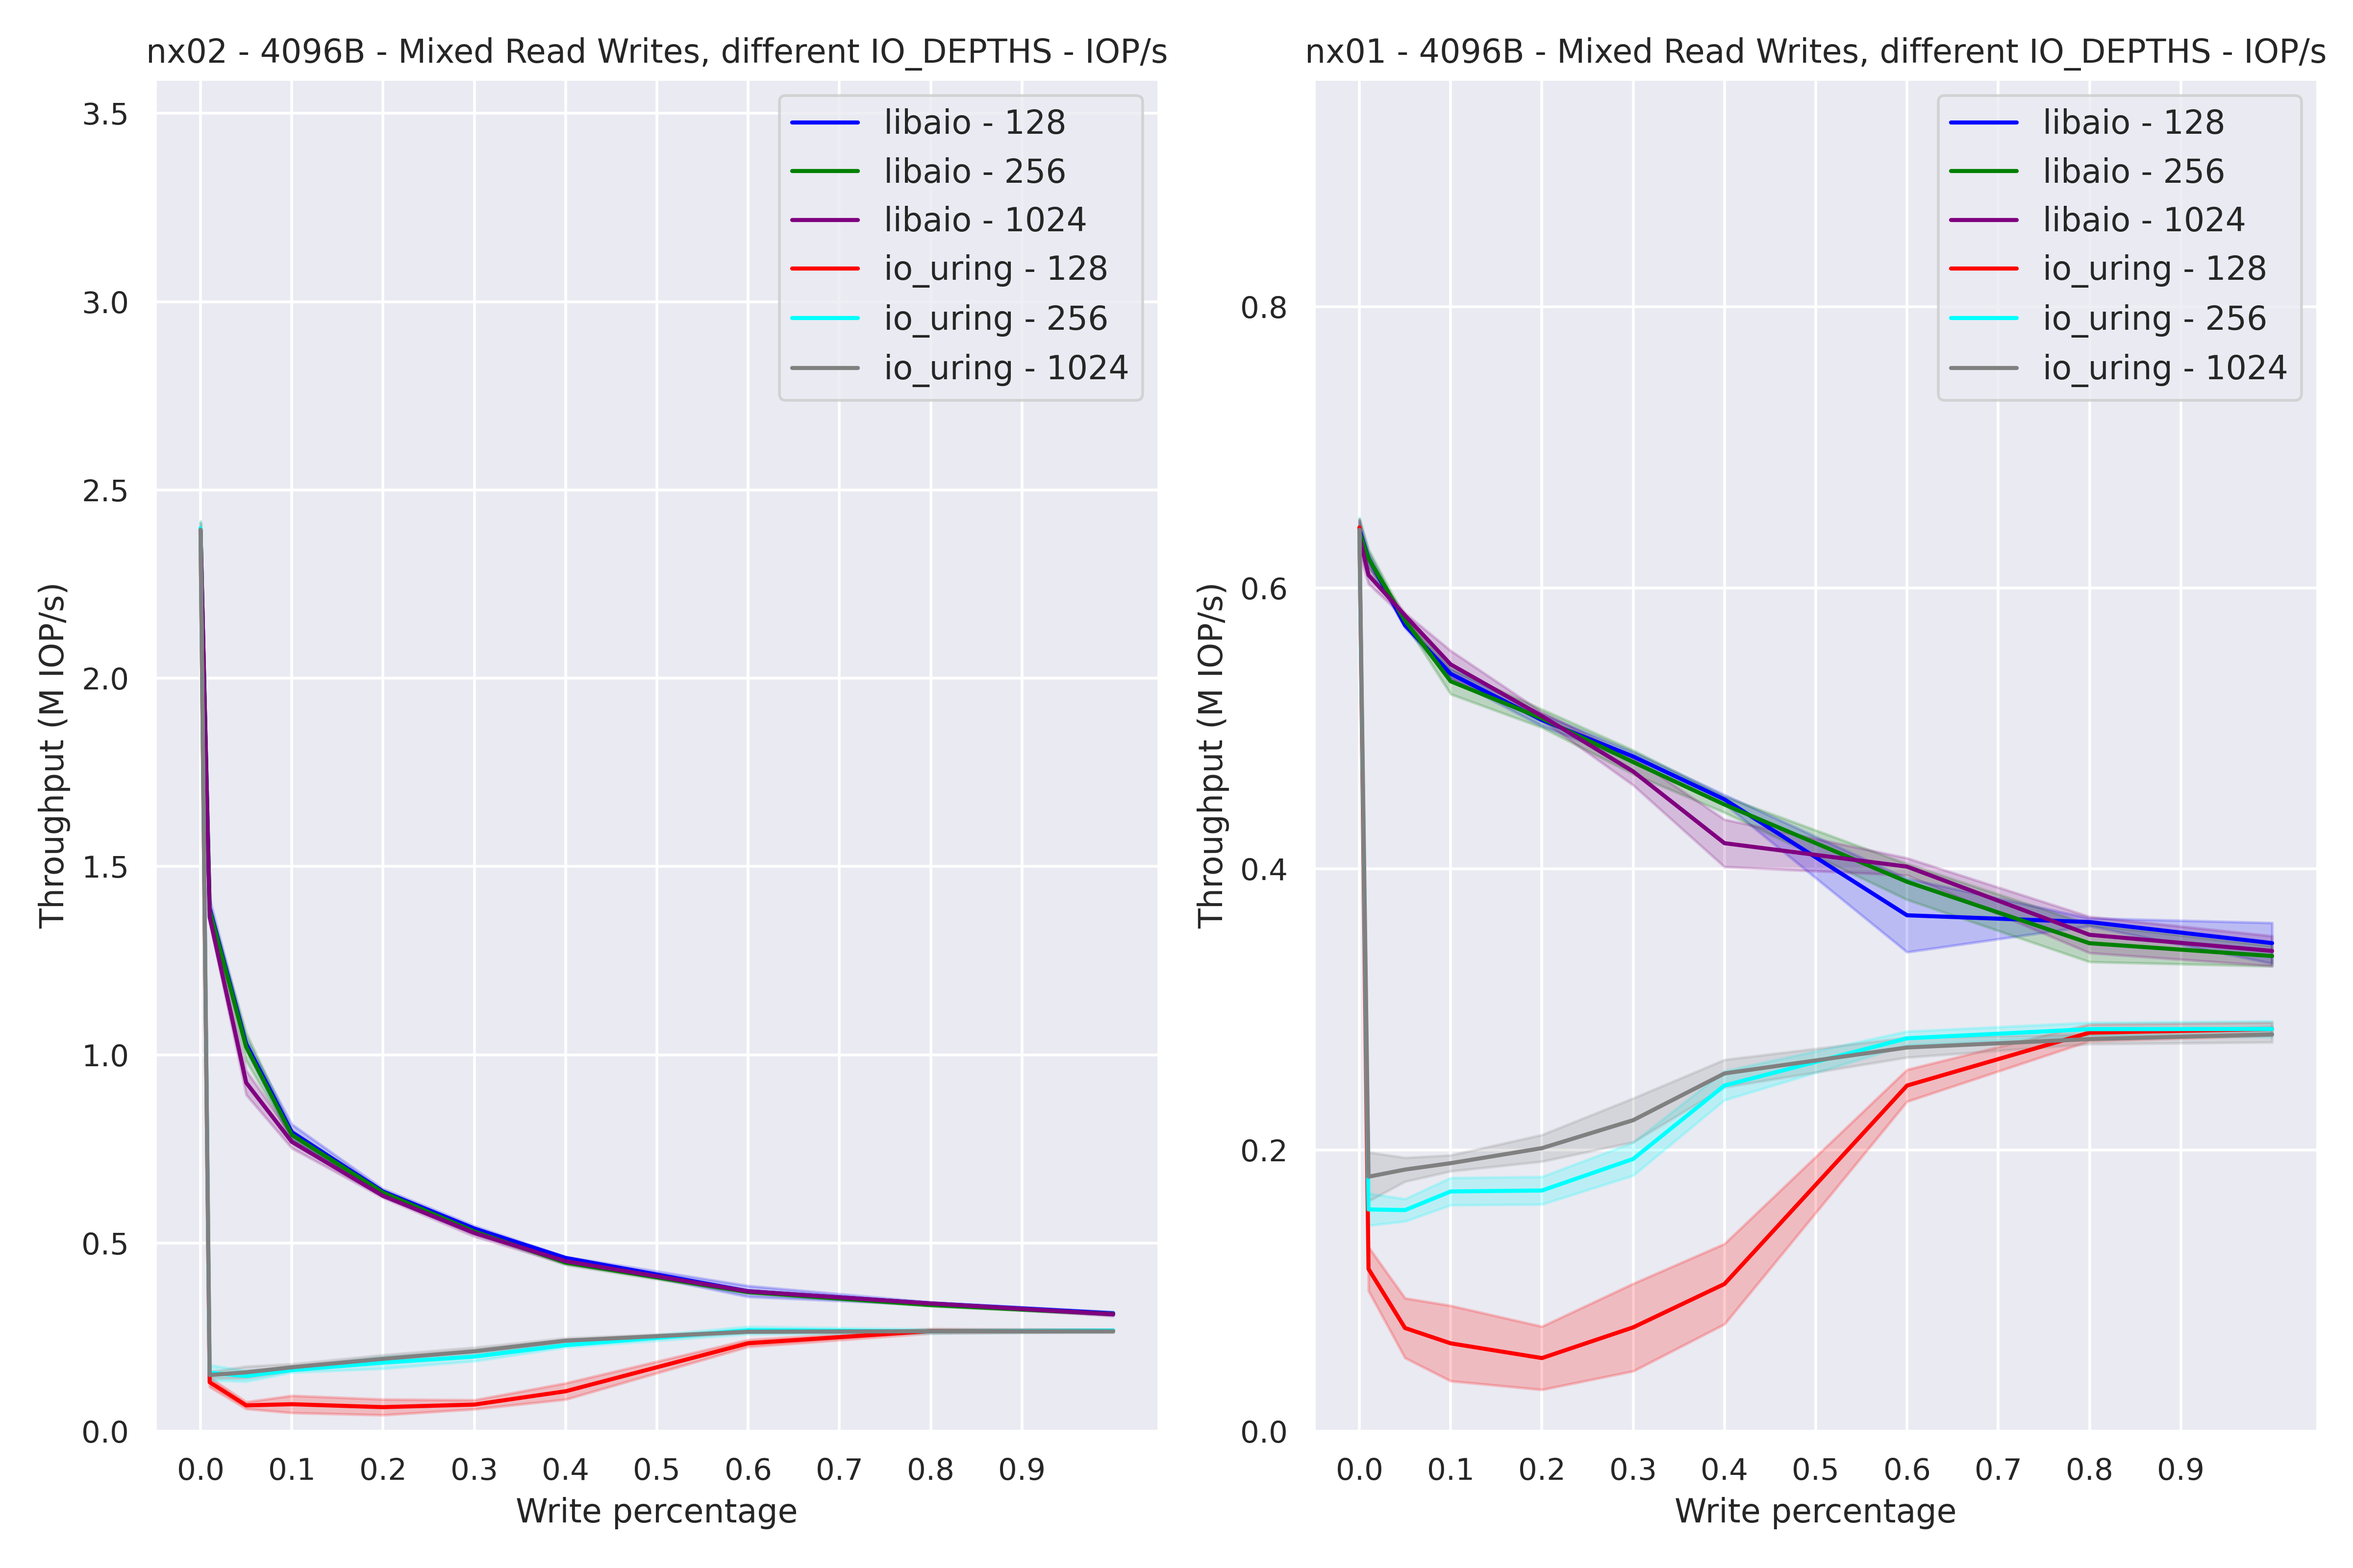
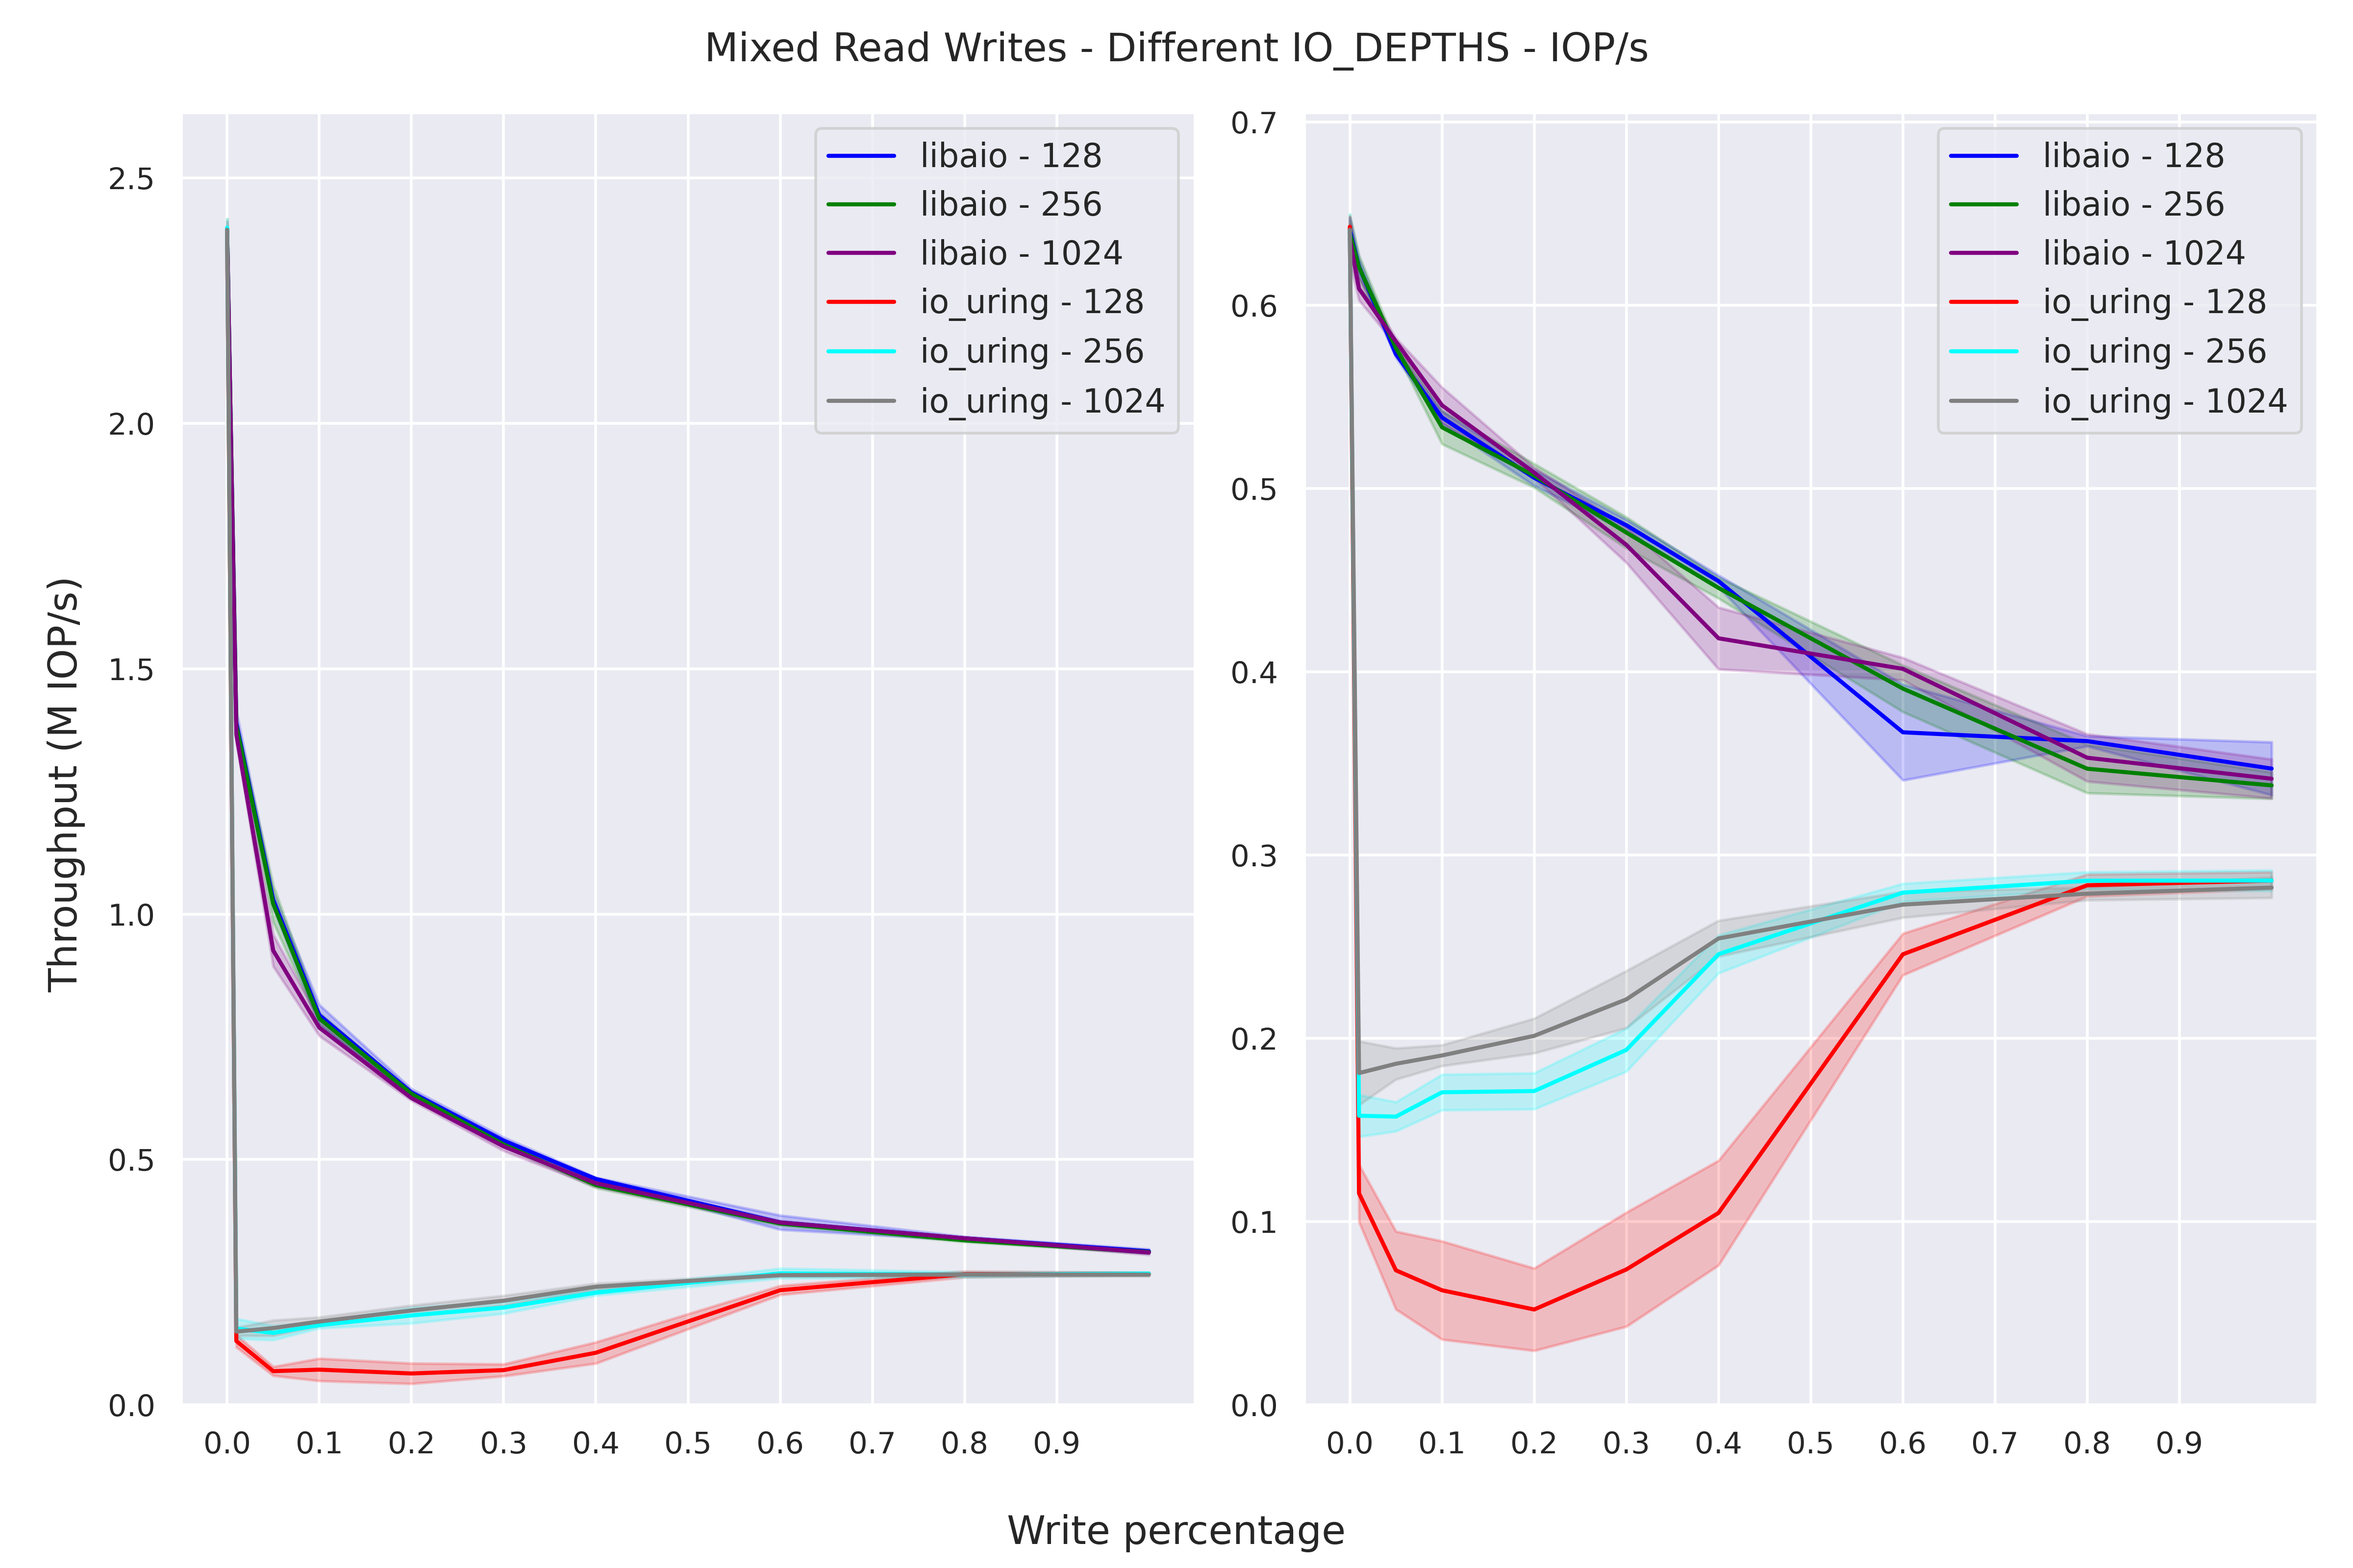
polish different queue size benchmark vis

diff --git a/visualize.py b/visualize.py
@@ -654,18 +654,17 @@ def visualize_mixed_read_write_queue_depths(
     queue_depths=[128, 256, 1024],
     rw=[0.0, 0.01, 0.05, 0.1, 0.2, 0.3, 0.4, 0.6, 0.8, 1.0],
 ):
-    plt.figure(figsize=(12, 8))
-    aggregate_repeated_benchmark(repeated_benchmark)
-
     machine_configs = list(repeated_benchmark.keys())  # Convert to list if necessary
     num_machines = len(machine_configs)
     num_columns = 2  # You can adjust the number of columns as needed
 
-    for idx, machine in enumerate(machine_configs, start=1):
-        plt.subplot(num_machines // num_columns, num_columns, idx)
-        plt.title(f"{machine} - 4096B - Mixed Read Writes, different IO_DEPTHS - IOP/s")
-        plt.ylabel("Throughput (M IOP/s)", fontdict={"fontsize": 12})
-        plt.xlabel("Write percentage", fontdict={"fontsize": 12})
+    fig, axs = plt.subplots(num_machines // num_columns, num_columns, figsize=(12, 8))
+    fig.supxlabel("Write percentage")
+    fig.supylabel("Throughput (M IOP/s)")
+    fig.suptitle("Mixed Read Writes - Different IO_DEPTHS - IOP/s")
+    aggregate_repeated_benchmark(repeated_benchmark)
+
+    for idx, (machine, ax) in enumerate(zip(machine_configs, axs.flatten()), start=1):
 
         for ssd, benchmark in repeated_benchmark[machine].items():
             color_id = 0
@@ -690,13 +689,13 @@ def visualize_mixed_read_write_queue_depths(
                         ]
                     )
 
-                    plt.plot(
+                    ax.plot(
                         rw,
                         throughputs,
                         color=COLORS[color_id],
                         label=f"{engine} - {queue_depth}",
                     )
-                    plt.fill_between(
+                    ax.fill_between(
                         rw[: len(throughputs)],
                         throughputs - std,
                         throughputs + std,
@@ -705,9 +704,9 @@ def visualize_mixed_read_write_queue_depths(
                     )
                     color_id += 1
 
-        plt.legend(fontsize=12)
-        plt.ylim([0.0, max(throughputs) * 1.5])
-        plt.xticks(RW)
+        ax.legend(fontsize=12)
+        ax.set_ylim([0.0, max(throughputs) * 1.1])
+        ax.set_xticks(RW)
 
     plt.tight_layout()  # Adjust layout to prevent overlap
     plt.savefig("figures/mixed_read_write_different_queue_depths.png", dpi=400)
@@ -1110,6 +1109,9 @@ def visualize_mixed_read_write_threads_polished(
 
 
 def main():
+    visualize_mixed_read_write_queue_depths(
+        import_benchmarks("random_read_write_different_queue_depths")
+    )
     visualize_mixed_read_write(import_benchmarks("mixed_read_write_results"))
     visualize_filled_ssd(import_benchmarks("filled_ssd"))
     visualize_logs(import_logs("hour_long"), bin_size=1)
@@ -1152,9 +1154,7 @@ def main():
     #         threads=threads[: i + 1],
     #         y_lims=[[0, 3.0], [0, 0.8]],
     #     )
-    # visualize_mixed_read_write_queue_depths(
-    #     import_benchmarks("random_read_write_different_queue_depths")
-    # )
+
     # visualize_mixed_read_write_new([import_benchmarks("mixed_read_write_new")])
     # benchmark = import_benchmark()
     # visualize_random_read_scalability(benchmark, [1, 2, 4, 8])
